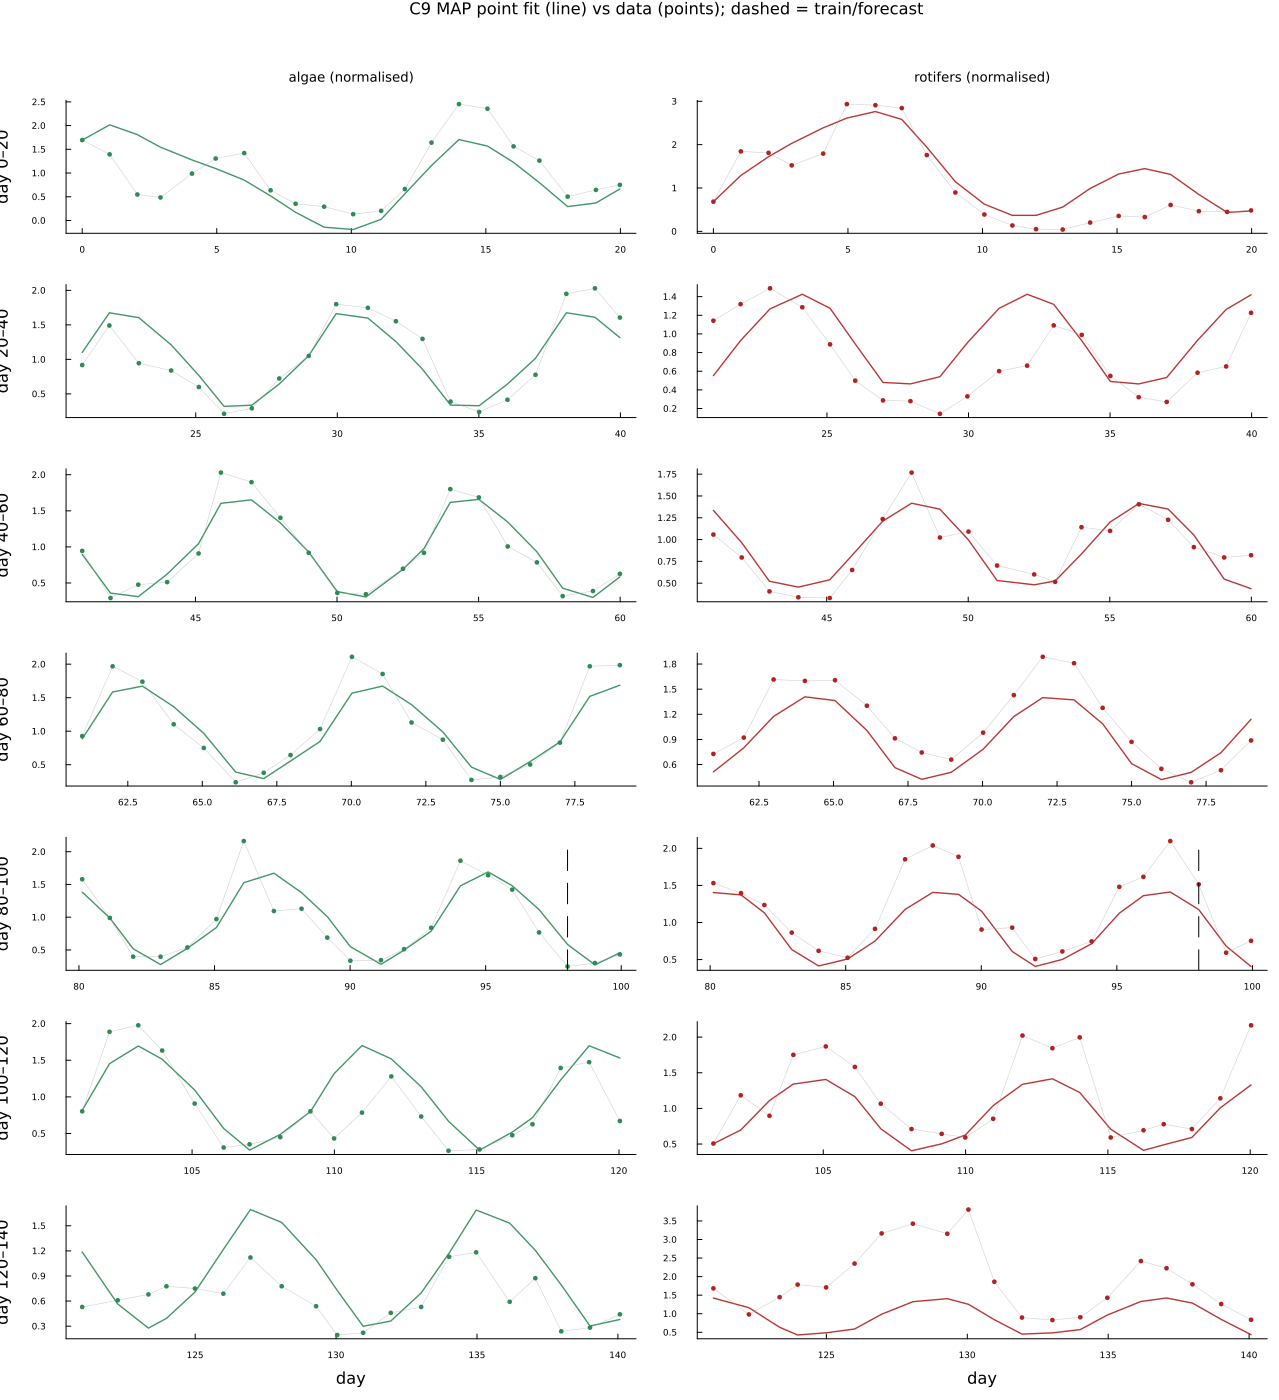
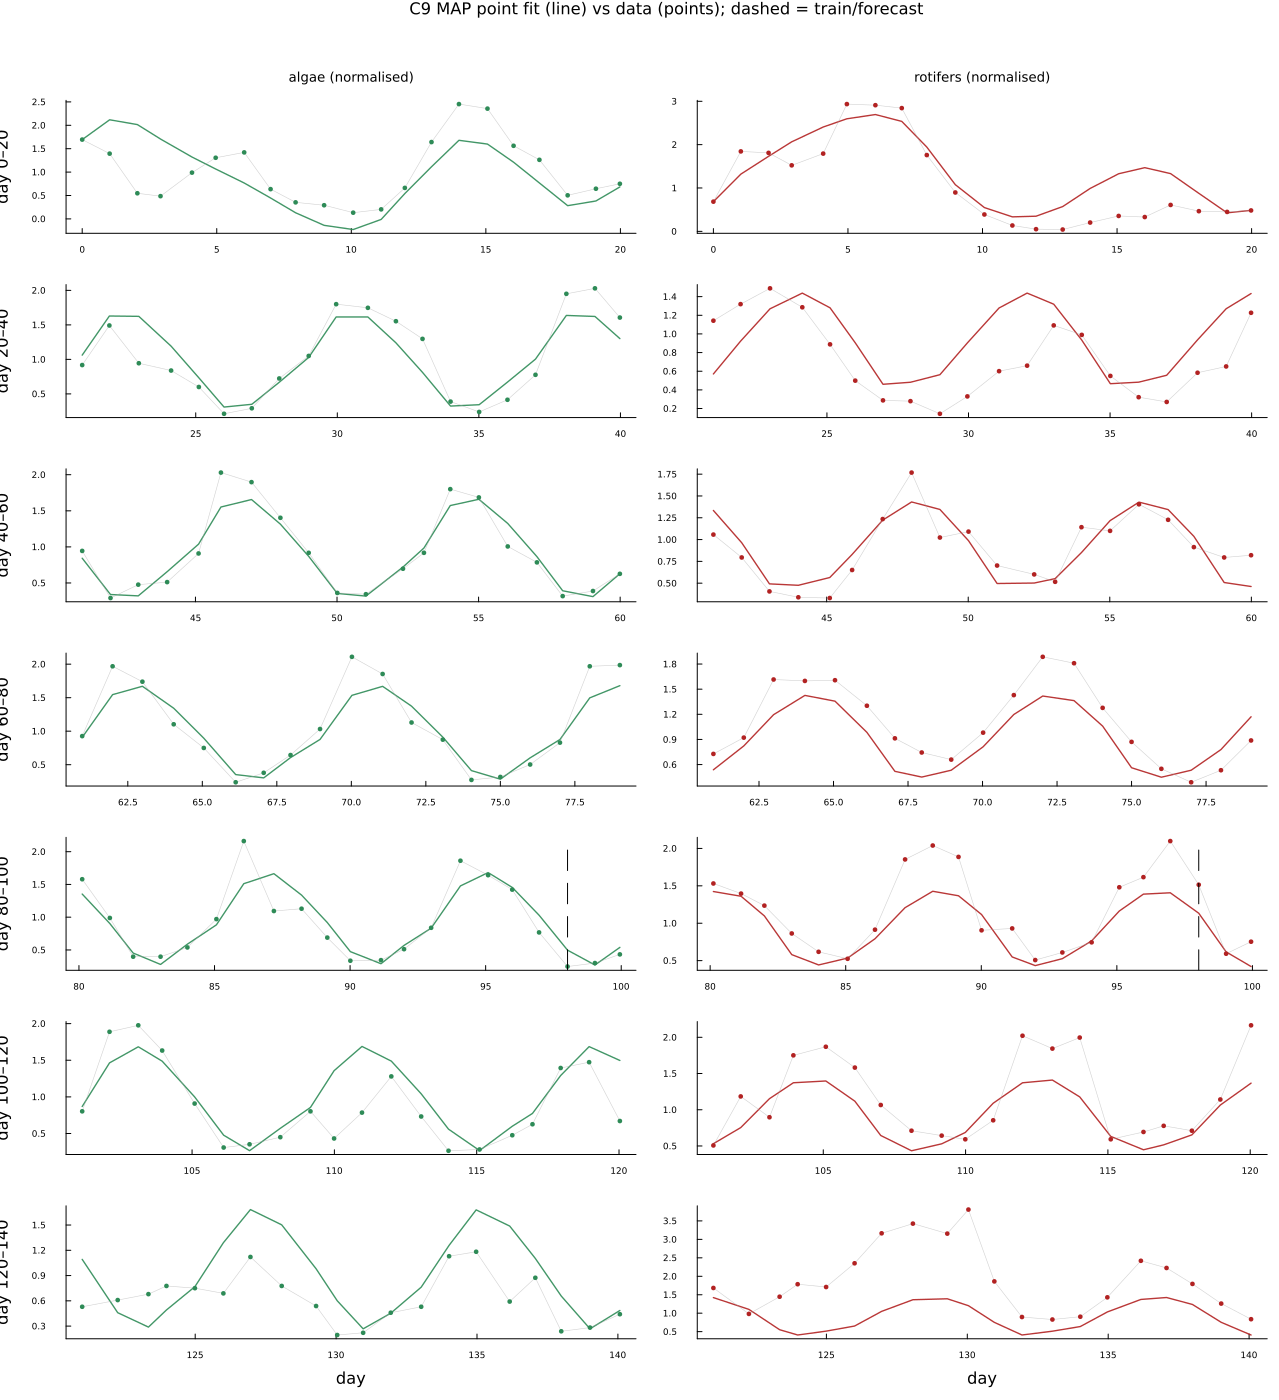
adding and comparing MAP fits for C1 and C9 for algae-rotifer datset

diff --git a/paper-experiments/AISTATS/algae-constant-condition/README.md b/paper-experiments/AISTATS/algae-constant-condition/README.md
@@ -1,0 +1,79 @@
+# Constant-condition chemostat fits + residual diagnostics
+
+A follow-up to [`../algae-chemostat/`](../algae-chemostat/) prompted by a structural
+discovery: **C9 (our previous showcase) is an externally *forced* experiment**, and an
+autonomous neural ODE cannot fit a forced system. This folder moves the headline
+real-data fit to a **constant-condition** experiment (where the autonomous BNODE is
+well-specified) and adds a **residual-variance / stationarity diagnostic** to make the
+misspecification visible.
+
+## The discovery: C8/C9 are forced, C1–C7/C10 are not
+
+The pooled CSV's `medium_N` column (external nutrient inflow Nᵢₙ, µmol N/l) is the
+chemostat's control knob. Checking it over time per experiment:
+
+| experiment | Nᵢₙ | regime |
+|---|---|---|
+| **C1–C5, C10** | constant **80** | constant-condition — autonomous BNODE **well-specified** |
+| C6, C7 | constant **160** | constant-condition |
+| **C8, C9** | **0 ↔ 160 square wave (~8-day period)** | **externally forced** — autonomous BNODE **misspecified** |
+
+`plot_forcing.jl` renders `outputs/forcing.png` showing the square wave on C8/C9 vs the
+flat line elsewhere.
+
+**Why this matters.** Our model is autonomous, `ẋ = f_θ(x)`. A time-dependent driver
+`Nᵢₙ(t)` cannot be represented by an autonomous field, so on C9 there is a hard accuracy
+ceiling (~52% relErr) that is *insensitive to network width, MAP iters, segment length,
+and prior strength* — all of which we swept and none of which moved it. The "cleanest
+ACF" that made us pick C9 was the **forcing signal**, not intrinsic dynamics.
+
+## Expectation-setting for C1–C4
+
+Constant-condition ≠ clean cycle. Removing the forcing, the *intrinsic* predator–prey
+cycle in C1–C4 is faint (ACF ≈ 0.23–0.35 vs C9's forced 0.73). So expect the autonomous
+BNODE to be **well-specified but lower-amplitude / noisier** here — that's honest. (C6/C7/C10
+have stronger intrinsic cycles, ~0.4, if a cleaner constant-condition showcase is wanted.)
+
+## Two questions this folder answers
+
+1. **Does the autonomous BNODE fit a *constant-condition* experiment better than the
+   forced C9?** (well-specification check) — start with **C1**.
+2. **Is the residual variance stationary?** For a well-specified model with stationary
+   noise, residuals `actual − point_estimate` should have roughly constant variance over
+   time. On forced/misspecified C9 we expect the opposite: residual variance that grows in
+   the forecast window and clusters around the Nᵢₙ switch times. `residual_diag.jl`
+   quantifies and plots this.
+
+## How it reuses the existing harness (no duplication)
+
+Fitting is done by the existing `../algae-chemostat/algae_chemostat.jl` (select the
+experiment with `EXPT`). Each MAP run now also writes
+`../algae-chemostat/outputs/algae_chemostat/map_prediction.csv` (day, actual & predicted
+per channel, train/forecast split). This folder's `residual_diag.jl` reads that CSV and
+produces the variance/stationarity diagnostics — no model code is duplicated.
+
+## Run
+
+```bash
+cd paper-experiments/AISTATS/algae-constant-condition
+julia --project=../../.. plot_forcing.jl                 # forcing evidence → outputs/forcing.png
+
+# Fit a constant-condition experiment (well-specified), then analyse residuals:
+MAP_ONLY=1 EXPT=1 julia --project=../../.. ../algae-chemostat/algae_chemostat.jl
+julia --project=../../.. residual_diag.jl 1              # reads C1's map_prediction.csv
+
+# Compare against the forced C9:
+MAP_ONLY=1 EXPT=9 julia --project=../../.. ../algae-chemostat/algae_chemostat.jl
+julia --project=../../.. residual_diag.jl 9
+```
+
+`residual_diag.jl <EXPT>` writes `outputs/residuals_C<EXPT>.png` and appends a row to
+`outputs/residual_summary.csv` (train vs forecast residual std, ratio, rolling-std trend).
+
+## What to look for
+
+- **Well-specified (C1):** residual std roughly **flat** across train→forecast (ratio ≈ 1),
+  no obvious structure at any particular days.
+- **Forced/misspecified (C9):** residual std **larger in the forecast window** (ratio ≫ 1)
+  and structured (peaks near Nᵢₙ switches) — the visual signature that an autonomous model
+  is missing a driver. That figure is the honest "here's where/why it fails" panel.